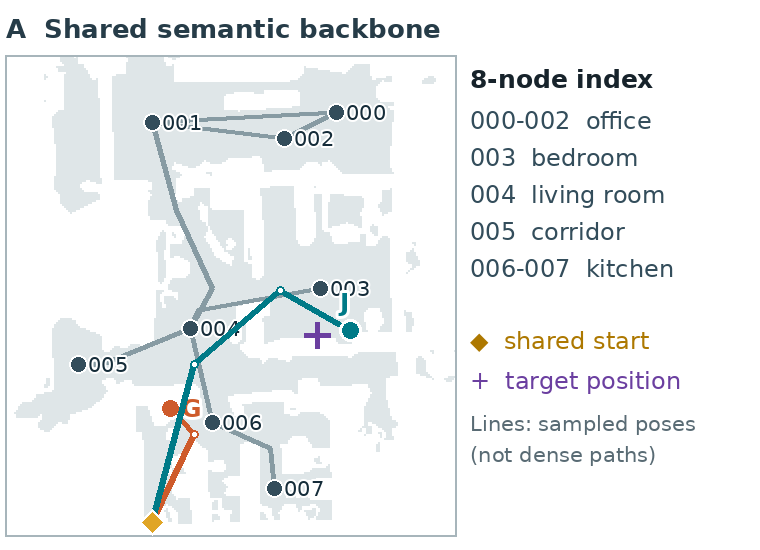
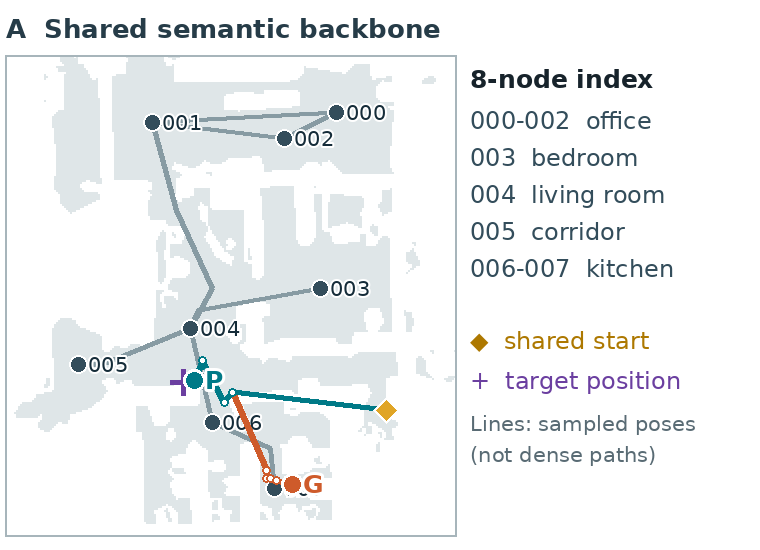
Align qualitative demos with paper ablation claims

Changed region(s): [[0.1816, 0.5255, 0.5145, 0.9582], [0.3329, 0.8036, 0.4237, 0.8964]]

diff --git a/docs/index.html b/docs/index.html
@@ -34,8 +34,8 @@
         </dl>
       </div>
       <figure class="hero-visual">
-        <img src="./assets/frozen-eight-node-backbone.png" alt="Frozen eight-node semantic backbone with the B06 paired task start, target, and terminal observation poses">
-        <figcaption>Actual frozen eight-node topology and B06 paired task evidence. Lines connect saved observation poses, not dense trajectories.</figcaption>
+        <img src="./assets/frozen-eight-node-backbone.png" alt="Frozen eight-node semantic backbone with the L01 paired task start, target, and terminal observation poses">
+        <figcaption>Actual frozen eight-node topology and L01 paired task evidence. Lines connect saved observation poses, not dense trajectories.</figcaption>
       </figure>
     </div>
   </header>
@@ -102,7 +102,7 @@
           <tbody id="ablation-body"></tbody>
         </table>
       </div>
-      <p class="fine-print">Every percentage uses the same 50 tasks per policy. External terminal-RGB review applies the literal place-and-object instruction. The scene has nine reused physical targets; these are selected stress cases, not a cross-building benchmark. P/O mask cues at initial ranking, while later replanning still sees the full instruction. Geometry, panoramic scan, and cross-task memory gains are not isolated by this comparison.</p>
+      <p class="fine-print">Every percentage uses the same 50 tasks per policy. G orders the shared fixed graph by distance; P ranks by place, O by object, and J jointly by place and object. J−V keeps joint ranking and structural/safety checks but omits the semantic Finish verifier; J includes it. All policies retain visual ObjectGoal execution. External terminal-RGB review applies the literal place-and-object instruction. The scene has nine reused physical targets; these are selected stress cases, not a cross-building benchmark. P/O mask cues at initial ranking, while later replanning still sees the full instruction. Skeleton extraction, panoramic scanning, and cross-task memory gains are not isolated by this comparison.</p>
     </section>
 
     <section class="section demos" id="demos">

diff --git a/docs/media/README.md b/docs/media/README.md
@@ -1,11 +1,14 @@
 # Experiment media
 
-The three `case-*.png` files are publication visuals from the frozen
+The three current publication visuals are from the frozen
 50-case, five-policy evaluation on the first-floor exhibition scene:
 
-- B06: geometry-order G false stop vs. joint J valid bedroom-cabinet completion;
+- L01: graph-distance G no completion vs. place-guided P valid living-room washing-machine completion;
 - O09: object-only O wrong-room robot vs. joint J valid office-robot completion;
 - L10: structural J-V false stop vs. hierarchical J valid sofa-side-cabinet completion.
+
+`case-b06.png` is retained as an earlier qualitative example, but is no longer
+one of the three main-paper comparisons.
 
 Each visual is generated from the frozen eight-node topology, recorded
 top-down observation-pose markers, and retained terminal RGB frames by
